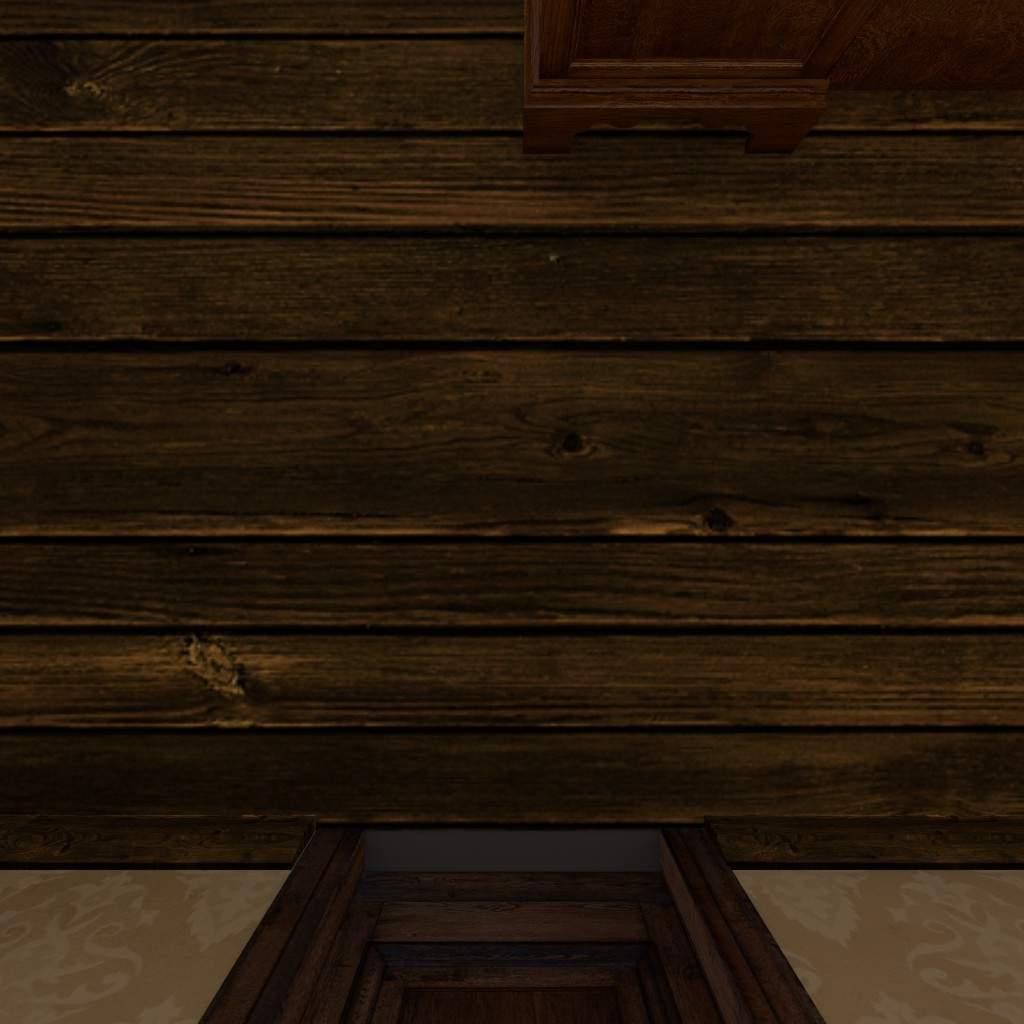
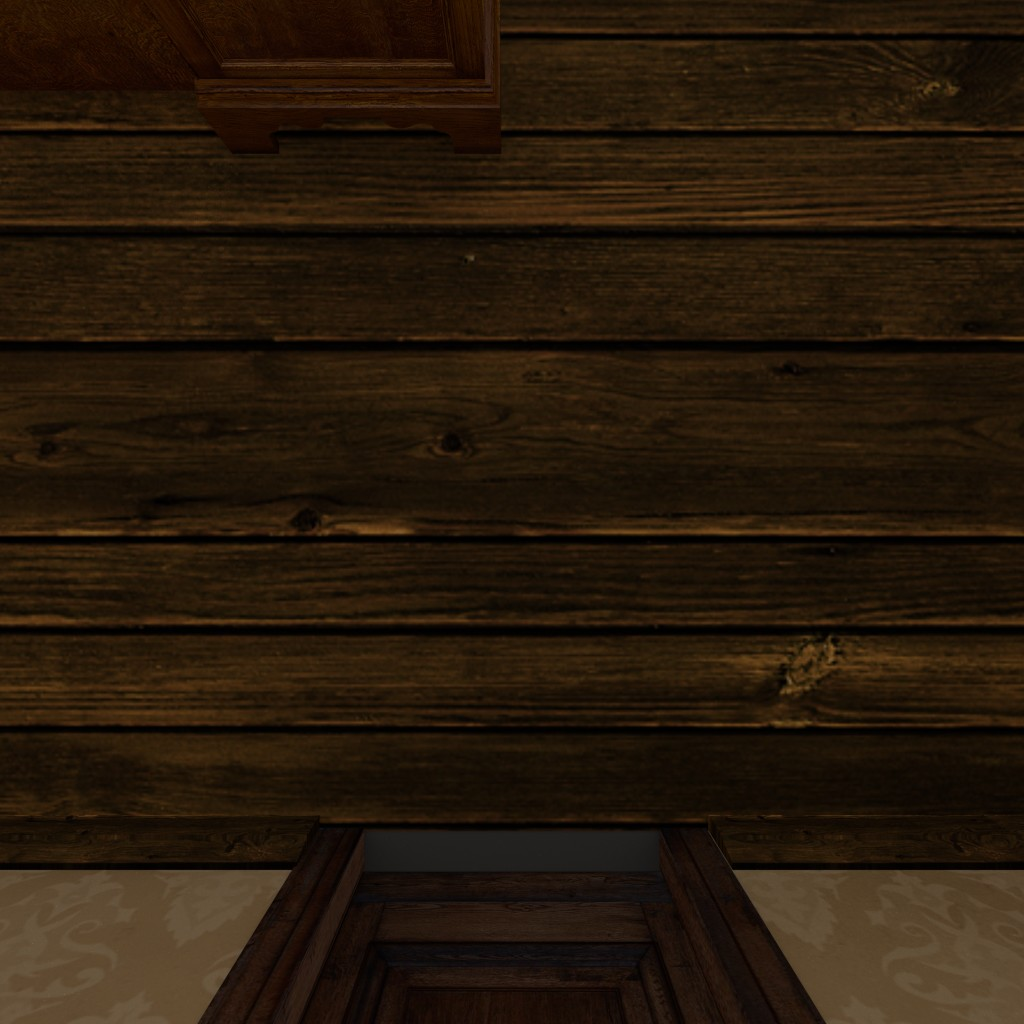
More

diff --git a/js/stock.js b/js/stock.js
@@ -1,0 +1,104 @@
+'use strict';
+
+//Global variables
+var container;
+var scene;
+var camera;
+var renderer;
+var controls;
+var origin;
+
+init();
+function init() {
+	scene = new THREE.Scene;
+		
+	var SCREEN_WIDTH = window.innerWidth;
+	var SCREEN_HEIGHT = window.innerHeight;		
+	var VIEW_ANGLE = 90;
+	var ASPECT = SCREEN_WIDTH / SCREEN_HEIGHT;
+	var NEAR = 0.1;
+	var FAR = 200;	
+
+	//Camera
+	camera = new THREE.PerspectiveCamera( VIEW_ANGLE, ASPECT, NEAR, FAR);	
+	scene.add(camera);	
+	camera.position.set(0, 0, 5);
+	
+	//Renderer
+	renderer = new THREE.WebGLRenderer( {antialias:true} );		
+	renderer.setSize(SCREEN_WIDTH, SCREEN_HEIGHT);		
+	container = document.createElement( 'container' );
+	document.body.appendChild( container );
+	container.appendChild( renderer.domElement );
+	controls = new THREE.OrbitControls( camera, renderer.domElement );	
+	controls.center = new THREE.Vector3(0, 0, 0);
+	
+	//Lighting
+	var light = new THREE.PointLight(0xffffff);
+	light.position.set(0,10,0);
+	//scene.add(light);
+	
+	//var hemi = new THREE.HemisphereLight(0xffffff, 0xffffff, 0.3);
+	//hemi.position.set(0, 10, 0);
+	//scene.add(hemi);
+	
+	//Origin
+	var originGeo = new THREE.CylinderGeometry(0.1, 0.1, 0.1, 10, 1, false);
+	var originMat = new THREE.MeshNormalMaterial();	
+	origin = new THREE.Mesh(originGeo, originMat);
+	scene.add(origin);
+	
+	//Box
+	var BOX_SIZE = 10;
+	var BOX_CENTER = BOX_SIZE/2;
+	
+	var PATH = 'img/p1/'; 
+	var DIRs  = ['l', 'r', 'u', 'd', 'f', 'b'];
+	var EXT = '.jpg';
+	
+	var sideGeo = new THREE.PlaneGeometry( BOX_SIZE, BOX_SIZE, BOX_SIZE);
+	var 
+	//var boxMaterials = [];
+	var boxSides = [];
+	for (var i = 0; i < 6; i++) { //Six faces on a cube...
+		var sideMaterial = new THREE.MeshBasicMaterial({		
+			map: THREE.ImageUtils.loadTexture( PATH + DIRS[i] + EXT ),		
+		});
+		//boxMaterials.push(material);
+		var side = new THREE.Mesh( sideGeo, sideMaterial );
+	}
+	
+	
+	
+	plane.position = new THREE.Vector3(0, 0, -BOX_CENTER);
+	
+	///
+	var material = new THREE.MeshBasicMaterial({		
+		map: THREE.ImageUtils.loadTexture( 'img/p0/l.jpg'),//imagePrefix + directions[i] + imageSuffix ),		
+	} );
+	var plane2 = new THREE.Mesh( planeGeo, material );	
+	plane2.rotation.y = Math.PI/2;
+	plane2.position = new THREE.Vector3(-BOX_CENTER, 0, 0);
+	
+	///
+	var material = new THREE.MeshBasicMaterial({		
+		map: THREE.ImageUtils.loadTexture( 'img/p0/r.jpg'),//imagePrefix + directions[i] + imageSuffix ),		
+	} );
+	var plane3 = new THREE.Mesh( planeGeo, material );
+	plane3.rotation.y = -Math.PI/2;
+	plane3.position = new THREE.Vector3(BOX_CENTER, 0, 0);
+	
+	scene.add( plane );
+	scene.add( plane2 );
+	scene.add( plane3 );
+	
+	render();
+}
+
+function render(time) {	
+	requestAnimationFrame( render );
+	controls.update(); 		
+		
+	renderer.render( scene, camera );
+	
+}

diff --git a/js/engine.js b/js/engine.js
@@ -33,18 +33,28 @@ function init() {
 	for (var i = 0; i < 6; i++)
 		materialArray.push( new THREE.MeshBasicMaterial({
 			map: THREE.ImageUtils.loadTexture( imagePrefix + directions[i] + imageSuffix ),
-			//side: THREE.BackSide
+			side: THREE.BackSide
 		}));
 	var skyMaterial = new THREE.MeshFaceMaterial( materialArray );
 	var skyBox = new THREE.Mesh( skyGeometry, skyMaterial );
 	
-	scene.add( skyBox );
+	//scene.add( skyBox );
 
 	var ambient = new THREE.AmbientLight( 0xffffff );
 	
 	//Add to scene
 	scene.add(ambient);				
+	hemi = new THREE.HemisphereLight( 0x0000ff, 0x00ff00, 0.6 ); 
+	scene.add(hemi);
 	
+	var geometry = new THREE.PlaneGeometry( 10, 10, 10 );
+	var material = new THREE.MeshBasicMaterial( {color: 0xffff00, side: THREE.DoubleSide} );
+	plane = new THREE.Mesh( geometry, material );
+	scene.add( plane );
+	plane.rotation.y = Math.PI / 2;
+	plane.position.x = 0;
+	plane.position.y = 0;
+	plane.position.z = 4;
 
 	renderer = new THREE.WebGLRenderer({antialias:true});
 	renderer.setPixelRatio( window.devicePixelRatio );
@@ -61,7 +71,7 @@ function init() {
 
 }
 
-
+var plane;
 
 function onMouseMove( event ) {
 
@@ -158,7 +168,8 @@ function update() {
 	camera.target.y = 500 * Math.cos( phi );
 	camera.target.z = 500 * Math.sin( phi ) * Math.sin( theta );
 
-	camera.lookAt( camera.target );
+	//camera.lookAt( camera.target );
+	camera.lookAt(plane.position);
 	
 
 	renderer.render( scene, camera );

diff --git a/index2.html b/index2.html
@@ -1,0 +1,14 @@
+<!doctype html>
+<html>
+<head>
+<meta http-equiv="content-type" content="text/html; charset=utf-8">
+<title>Test</title>
+</head>
+<body>
+
+<script src="/three/build/three.min.js"></script>
+<script src="/three/build/orbital-camera.js"></script>
+<script src="js/stock.js"></script>
+
+</body>
+</html>
